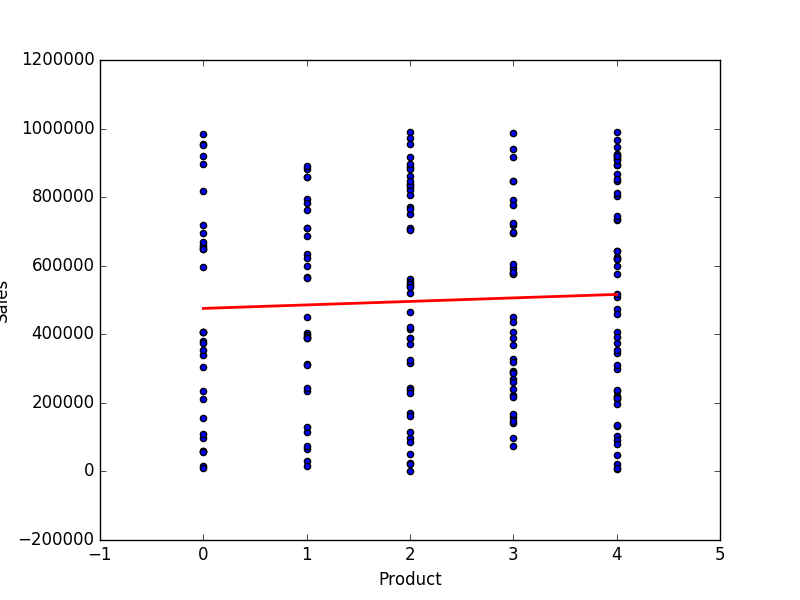
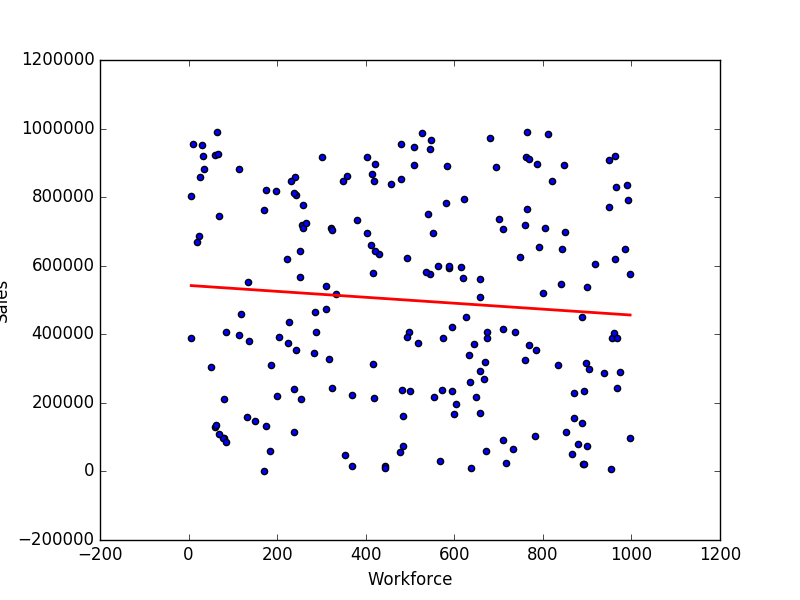
parameters add

diff --git a/public/javascripts/upload.js b/public/javascripts/upload.js
@@ -1,12 +1,30 @@
+
 $('.upload-btn').on('click', function (){
     $('#upload-input').click();
     $('.progress-bar').text('0%');
     $('.progress-bar').width('0%');
 });
 
+var X = 'X';
+var Y = 'Y';
+
+$('#parameters').on('submit', function(e){
+  e.preventDefault();
+  X = $('#parameter1').val();
+  Y = $('#parameter2').val();
+});
+
+
 $('#upload-input').on('change', function(){
+//$('#parameters').on('submit', function(e){
+//$("form").submit(function(e){
+
+  //e.preventDefault();
 
   var files = $(this).get(0).files;
+
+  var data = $("#parameters :input").serializeArray();
+  console.log(data);
 
   if (files.length > 0){
     // create a FormData object which will be sent as the data payload in the
@@ -16,10 +34,15 @@ $('#upload-input').on('change', function(){
     // loop through all the selected files and add them to the formData object
     for (var i = 0; i < files.length; i++) {
       var file = files[i];
-
       // add the files to formData object for the data payload
       formData.append('uploads[]', file, file.name);
     }
+
+    console.log(data);
+
+    formData.append('x', X);
+    formData.append('y', Y);
+    formData.append('done', 'done');
 
     $.ajax({
       url: '/upload',
@@ -29,33 +52,6 @@ $('#upload-input').on('change', function(){
       contentType: false,
       success: function(data){
           console.log('upload successful!\n' + data);
-      },
-      xhr: function() {
-        // create an XMLHttpRequest
-        var xhr = new XMLHttpRequest();
-
-        // listen to the 'progress' event
-        xhr.upload.addEventListener('progress', function(evt) {
-
-          if (evt.lengthComputable) {
-            // calculate the percentage of upload completed
-            var percentComplete = evt.loaded / evt.total;
-            percentComplete = parseInt(percentComplete * 100);
-
-            // update the Bootstrap progress bar with the new percentage
-            $('.progress-bar').text(percentComplete + '%');
-            $('.progress-bar').width(percentComplete + '%');
-
-            // once the upload reaches 100%, set the progress bar text to done
-            if (percentComplete === 100) {
-              $('.progress-bar').html('Done');
-            }
-
-          }
-
-        }, false);
-
-        return xhr;
       }
     });
 

diff --git a/app.js b/app.js
@@ -4,6 +4,11 @@ var path = require('path');
 var formidable = require('formidable');
 var fs = require('fs');
 
+var command = 'python linear_regress.py ';
+var filename;
+var x_param = 'x';
+var y_param = 'y';
+
 app.use(express.static(path.join(__dirname, 'public')));
 
 app.get('/', function(req, res){
@@ -29,6 +34,19 @@ app.post('/upload', function(req, res){
   // rename it to it's orignal name
   form.on('file', function(field, file) {
     fs.rename(file.path, path.join(form.uploadDir, file.name));
+    filename = file.name;
+    regression(filename, x_param, y_param);
+  });
+
+  form.on('field', function(name, value) {
+    if (name == 'x') {
+      x_param = value;
+      console.log(x_param);
+    }
+    else if (name == 'y') {
+      y_param = value;
+      console.log(y_param);
+    }
   });
 
   // log any errors that occur
@@ -44,8 +62,18 @@ app.post('/upload', function(req, res){
   // parse the incoming request containing the form data
   form.parse(req);
 
+ 
+});
+
+var server = app.listen(3000, function(){
+  console.log('Server listening on port 3000');
+});
+
+function regression(file,x,y) {
+  console.log('hello');
+  var command = 'python linear_regress.py ' + file + ' ' + x + ' ' + y;
   const exec = require('child_process').exec;
-  exec('python linear_regress.py', (e, stdout, stderr)=> {
+  exec(command, (e, stdout, stderr)=> {
     if (e instanceof Error) {
         console.error(e);
         throw e;
@@ -53,8 +81,4 @@ app.post('/upload', function(req, res){
     console.log('stdout ', stdout);
     console.log('stderr ', stderr);
   });
-});
-
-var server = app.listen(3000, function(){
-  console.log('Server listening on port 3000');
-});
+}

diff --git a/views/index.html b/views/index.html
@@ -12,22 +12,28 @@
 </head>
 <body>
 
+
   <div class="container">
     <div class="row">
       <div class="col-xs-12">
         <div class="panel panel-default">
           <div class="panel-body">
+            <p> Select the columns on which you want to perform the regression, press Submit, then upload your spreadsheet</p>
+            <form id="parameters">
+            <input id="parameter1"  type="text" value="X Column"/><br>
+              <input id="parameter2" type="text" value="Y Column"/><br>
+              <input type="submit" value="Submit"/>
+            </form>
             <span class="glyphicon glyphicon-cloud-upload"></span>
             <h2>File Uploader</h2>
-            <div class="progress">
-              <div class="progress-bar" role="progressbar"></div>
-            </div>
             <button class="btn btn-lg upload-btn" type="button">Upload File</button>
           </div>
         </div>
       </div>
     </div>
   </div>
+
+  <img src='public/img/plot.png'>
 
   <input id="upload-input" type="file" name="uploads[]" multiple="multiple"></br>
 

diff --git a/linear_regress.py b/linear_regress.py
@@ -4,15 +4,19 @@ from mpl_toolkits.mplot3d import Axes3D
 import openpyxl
 import pandas as pd
 from sklearn.feature_extraction import DictVectorizer
+import sys
 
-def best_fit():
-	data = pd.read_excel('uploads/randbook.xlsx')
+def main(argv):
+	data = pd.read_excel('uploads/' + argv[0])
 	#data = pd.read_csv('http://www-bcf.usc.edu/~gareth/ISL/Advertising.csv', index_col=0)
 
 	# create X and y
-	feature_cols = ['Product']
+	X_col = argv[1]
+	Y_col = argv[2]
+	# feature_cols = ['Workforce']
+	feature_cols = [X_col]
 	X = data[feature_cols]
-	y = data.Sales
+	y = data[Y_col]
 
 	# follow the usual sklearn pattern: import, instantiate, fit
 	from sklearn.linear_model import LinearRegression
@@ -27,9 +31,9 @@ def best_fit():
 	zip(feature_cols, lm.coef_)
 
 	# predict for a new observation
-	X_new = pd.DataFrame({'Product': [data.Product.min(), data.Product.max()]})
+	X_new = pd.DataFrame({'Workforce Size': [data[X_col].min(), data[X_col].max()]})
 	preds = lm.predict(X_new)
-	data.plot(kind='scatter', x='Product', y='Sales')
+	data.plot(kind='scatter', x=X_col, y=Y_col)
 	plt.plot(X_new, preds, c='red', linewidth=2)
 	# regres = plt.plot(X_new, preds, c='red', linewidth=2)
 	# fig = regres.get_figure()
@@ -46,4 +50,6 @@ def plot():
 	data.plot(kind='scatter', x='Radio', y='Sales', ax=axs[1])
 	data.plot(kind='scatter', x='Newspaper', y='Sales', ax=axs[2])
 
-best_fit()
+#best_fit()
+if __name__ == "__main__":
+	main(sys.argv[1:])
